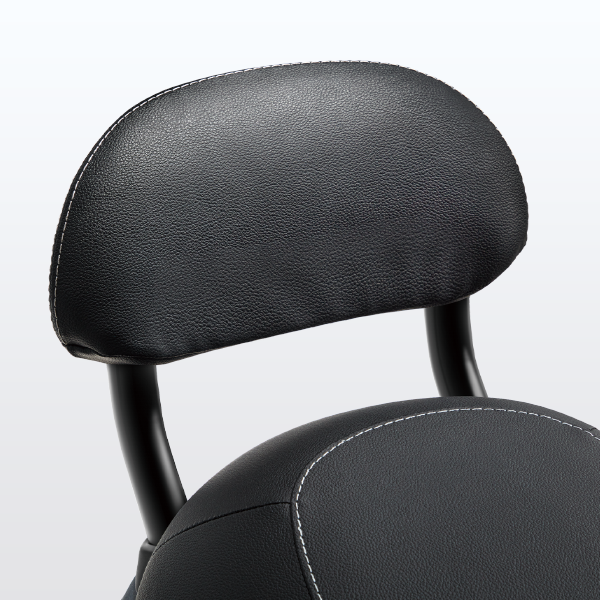
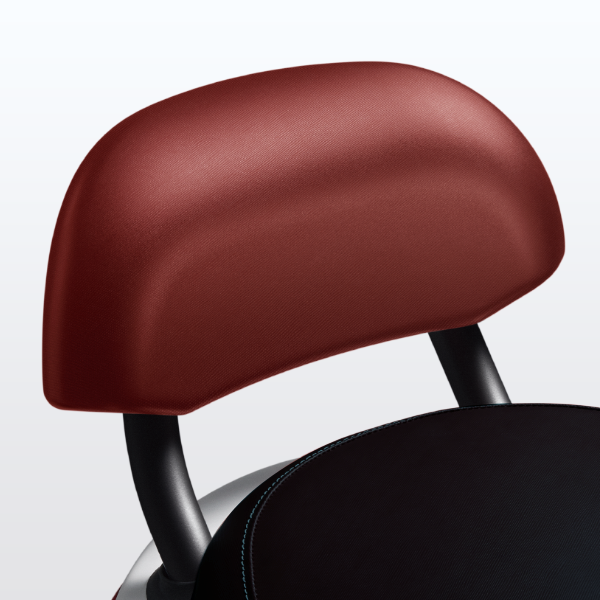
新增勁炫、補助test

diff --git a/layouts/models/single.html b/layouts/models/single.html
@@ -134,7 +134,7 @@
     {{ if gt (len $heroPhotos) 1 }}
     <button type="button" onclick="prevHeroSlide()" class="absolute left-3 md:left-32 top-1/2 -translate-y-1/2 bg-black/40 hover:bg-black/70 text-white w-10 h-10 md:w-12 md:h-12 rounded-full backdrop-blur-md flex items-center justify-center text-lg md:text-xl z-20 opacity-70 hover:opacity-100 transition-all shadow-md">❮</button>
     <button type="button" onclick="nextHeroSlide()" class="absolute right-3 md:right-12 top-1/2 -translate-y-1/2 bg-black/50 hover:bg-black/80 text-white w-10 h-10 md:w-auto md:h-auto md:py-2.5 md:px-4 rounded-full backdrop-blur-md flex items-center justify-center md:gap-2 z-20 opacity-85 hover:opacity-100 transition-all shadow-md group">
-        <span class="hidden md:inline text-sm font-bold tracking-wider">點擊看更多車色</span>
+        <span class="hidden md:inline text-sm font-bold tracking-wider">點擊看更多</span>
         <span class="text-base md:text-lg transition-transform group-hover:translate-x-0.5">❯</span>
     </button>
     <div id="hero-dots" class="absolute bottom-6 md:bottom-8 left-1/2 -translate-x-1/2 flex gap-3 z-20"></div>

diff --git a/content/models/kg/index.md b/content/models/kg/index.md
@@ -1,6 +1,6 @@
 ---
-title: "eMOVING EZ1"
-description: "輕巧好騎，城市通勤首選"
+title: "eMOVING 勁炫125"
+description: "免月租 首當騎充"
 
 # 0. 頁首輪播圖 (新增此區塊，統一使用 .png)
 hero_slides:
@@ -9,47 +9,44 @@ hero_slides:
 
 # 1. 精彩試乘影片
 videos:
-  - id: "JPFyRV4EGww"
-    title: "eMOVING EZ1 深度試乘體驗"
-  - id: "X75kLrpiaM0"
-    title: "城市通勤首選！EZ1 試騎心得"
-  - id: "x2l7XLsQ2YU"
-    title: "女用機車大推！輕鬆上手"
+  - id: "oMJQCtLhRRg"
+    title: "出發！騎著eMOVING iE125『潛』進小琉球【新車試駕】"
+  - id: "qmsFOyNzBhU"
+    title: "歐塊日常 EP9 - 電動機車超充體驗"
+  - id: "FCB6EDptK5g"
+    title: "騎電動車 eMoving iE125 吃給你看！電動中柱好省力（是誰說桃園是美食沙漠？）"
 
 
 # 網紅推薦 IG 貼文嵌入 (新增區塊)
 ig_posts:
-  - url: "https://www.instagram.com/p/Cjz84mULT3y/?utm_source=ig_embed&ig_rid=AeKvRSm5RTOLuoIcWrflrgj"
-  - url: "https://www.instagram.com/p/Cj2drvuLCFy/?utm_source=ig_embed&ig_rid=AWYZ4_s7nE9Lp8_wi-Qj374"
-  - url: "https://www.instagram.com/p/Cbuqf6_rGMh/?utm_source=ig_embed&ig_rid=AdPpzkl6EBtwwSWgMoGuNEY"
+  - url: "https://www.instagram.com/p/C6dw7rgySXP/?utm_source=ig_embed&ig_rid=AZ5ZkObWji5wjGOHvrnQLas"
+  - url: "https://www.instagram.com/p/CGZWAgUpkyy/?utm_source=ig_embed&ig_rid=AZx4OalViWgwCbFQcgtsY6T"
+  - url: "https://www.instagram.com/p/CIPaY7nj6b-/?utm_source=ig_embed&ig_rid=A0Zv8plpGRBsYCvc_IelrcO"
 
 
 # 2. 車款特色 (已改為 .png)
 features:
-  - title: "極輕巧車身設計 - 只有80kg"
-    desc: "專為女性與輕通勤族群設計，輕鬆牽車擺頭無負擔。"
+  - title: "最懂你的貼心電動機車"
+    desc: "你沒想到的，勁炫125都幫你想到了。"
     image: "feature_1.png"
-  - title: "大容量置物空間"
-    desc: "車廂大置物空間，輕鬆收納日常用品與包包。"
+  - title: "自由充電，有插座就充"
+    desc: "隨時隨地充電，免月租甩掉每月負擔。"
     image: "feature_2.png"
-  - title: "雙杯前置物空間"
-    desc: "超大前置物空間，兩杯飲料 + 手機也沒問題。"
+  - title: "CBS 煞車系統"
+    desc: "按下煞車桿，瞬間分配制動力至前後輪，保持車身穩定，縮短煞車距離。"
     image: "feature_3.png"  
-  - title: "低座高"
-    desc: "不論身高高低，都能享受騎乘 ez1 的舒適度。"
+  - title: "智慧定速巡航"
+    desc: "輕鬆維持相同速度，節電又省力。"
     image: "feature_4.png"
-  - title: "USB充電"
-    desc: "實現電量自由，騎車出遊可以多拍幾張照片或影片。"
+  - title: "膝前空間"
+    desc: "腳踏空間大，刻印品牌大使圖樣，增加趣味度。"
     image: "feature_5.png"
-  - title: "卡片感應鑰匙"
-    desc: "鑰匙變成薄博一張卡片，方便攜帶幾乎無重量。"
+  - title: "中控鎖"
+    desc: "傳統鑰匙開機，上手無難度。"
     image: "feature_6.png"          
-  - title: "手機也能當鑰匙"
-    desc: "利用「FUN心騎 App」可以當備用鑰匙。"
+  - title: "CVT 皮帶傳動系統"
+    desc: "騎乘更穩定，維護保養簡單方便。"
     image: "feature_7.png"  
-  - title: "使用Gogoro電池 6秒換電"
-    desc: "截至2026年8月已佈建2,738個電池交換站，騎到哪換到哪。"
-    image: "feature_8.png"  
 
 
 # 3. 詳細規格數據表注意事項（可依車款新增多條）
@@ -57,17 +54,19 @@ specs_notes:
   - "* 規格配備以實車為準，本公司保留修改權利。"
   - "註：<br>
 
-    1.EZ-R能源效率為23.8 km/度，純電行程為82km，年耗電量189度，實際續航里程、極速、加速能力等因載重條件、個人騎乘習慣、騎乘路況與天候狀況的不同而有所差異。<br>
+    1. 極速、直線加速能力為實驗室測試值，以整車重量(含騎士1人)在175公斤以下進行測試。極速之測試情境為開啟Boost模式，行駛於平坦之柏油道路測試的最高儀表速度。直線加速能力之測試情境為開啟Boost模式測試的直線加速秒數。<br>
 
-    2.中華汽車保有隨時變動eMOVING電動二輪車和其他產品之設計及規格的權利。<br>
+    2. 勁炫125能源效率為18.5km/度，純電行駛里程為75km，實際續航里程、極速、加速能力等因載重條件、個人騎乘習慣、 騎乘路況與天候狀況的不同而有所差異。<br>
 
-    3.中華汽車亦保留隨時對車款及產品出售與否或對其內容記載變更之權利。<br>
+    3. 整車(不含電池)保固自領牌日起2年或3萬公里以內，其一條件到達即終止保固；電池租賃保固請依電池租賃暨充電服務使用合約內容。<br>
 
-    4.實際規格以量產為主。<br>
+    4.中華汽車保有隨時變動eMOVING電動二輪車和其他產品之設計及規格的權利。<br>
 
-    6.年耗電量(度)係以年平均行駛4,500公里除以能源效率測試值計算；表列能耗值測試方法為CNS 15819-4及其後續修正測試方法。<br>
+    5.中華汽車亦保留隨時對車款及產品出售與否或對其內容記載變更之權利。<br>
 
-    7.7.本車款採用gogoro換電系統，無提供預選里程方案。<br>
+    6.實際規格以量產為主。<br>
+
+    7.年耗電量(度)243度係以年平均行駛4,500公里除以能源效率測試值計算；表列能耗值測試方法為CNS 15819-4及其後續修正測試方法。<br>
 
     車主車輛使用常見問題請參閱：<a href='https://www.e-moving.com.tw/QA' target='_blank'>https://www.e-moving.com.tw/QA</a>。"
 
@@ -75,99 +74,110 @@ specs_tables:
 - title: "勁炫125 超質型"
   specs:
   - label: "長 x 寬 x 高"
-    value: "1,690 X 645 X 1,042 mm"
+    value: "1,800 X 680 X 1,090mm"
   - label: "軸距"
-    value: "1,174 mm"
-  - label: "座墊高"
-    value: "740 mm"
+    value: "1,280 mm"
+  - label: "極速"
+    value: "100 km/h"
   - label: "車重(含電池)"
-    value: "80  kg"
-  - label: "頭燈"
-    value: "LED"
-  - label: "方向燈"
-    value: "LED"
-  - label: "尾燈"
-    value: "LED"
-  - label: "懸吊系統"
-    value: "雙槍式後避震"
-  - label: "煞車系統"
-    value: "油壓碟煞 / 金屬油管"
+    value: "120 kg"
+  - label: "最大功率（馬力"
+    value: "6kW（8.0hp"
+  - label: "傳動型式"
+    value: "皮帶"
+  - label: "動力模式"
+    value: "ECO/ Normal / Boost"
+  - label: "電池電壓"
+    value: "87.6V"
+  - label: "容量"
+    value: "36Ah"
+  - label: "後避震器"
+    value: "雙避震（預載可調）"
   - label: "碟盤規格"
-    value: "前：200 mm / 後：180 mm"
+    value: "245 mm/200 mm"
   - label: "輪胎規格"
-    value: "前：90/90-10 50L / 後：100-90-10 56L"
-  - label: "最大功率(馬力)"
-    value: "3 kw(4.0hp)"
-  - label: "最大扭力"
-    value: "115Nm"
-  - label: "最高時速"
-    value: "50 km/hr"
-  - label: "後置物箱空間"
-    value: "21.6 L"
+    value: "前：90/90-12  / 後：100/80-10"
+  - label: "煞車系統"
+    value: "CBS"
+  - label: "儀表面板"
+    value: "彩色液晶"
+  - label: "0-50km/h"
+    value: "3.9  sec 直線加速"
+  - label: "鑰匙鎖組"
+    value: "傳統鑰匙"
   - label: "貼心配備"
-    value: "置物掛勾 / 後扶手 / USB充電孔 / 大容量雙側前置物盒"
-  - label: "解鎖與上鎖"
-    value: "智慧鑰匙卡 / 智慧型手機"
-  - label: "置物箱開啟方式"
-    value: "車上按鍵 / 智慧鑰匙卡 / 智慧型手機 "
-  - label: "儀錶板"
-    value: "負顯背光單色液晶"
+    value: "USB充電器(選購) / LED頭燈/LED方向燈 / 側腳架自動斷電 / 定速巡航(恆定馬達功率) / 電動倒車 / 緊急煞車警示"
+  - label: "電池電壓"
+    value: "87.6V"
+  - label: "容量"
+    value: "36Ah"
   - label: "能源效率"
-    value: "27km/度"
+    value: "18.5km/度"
   - label: "純電行程 "
-    value: "39km"
+    value: "75km"
   - label: "年耗電源"
-    value: "167度 "
+    value: "243度 "
 
 
 
 # 4. 媒體報導觀點 (已改為 .png)
 reports:
-  - source: "2gamesome"
-    author: "葉毓中"
+  - source: "SiCAR愛車酷"
+    author: "SiCAR愛車酷"
     image: "report_1.png"
-    summary: "作為第一款加入 PBGN 換電聯盟的代表，eMoving 仍走過去擅長的輕巧、女性路線，外型設計面，EZ1 與 VIVA 最大不同處，在於車頭前半部的設計，考量 VIVA 正負兩極的車頭設計評價，加上對於著裙裝女性不甚友善（易曝光）的缺點，EZ1 換上了與傳統油車較相近的前車體造型，且為了呼應品牌特色，. . . . . . "
-    link: "https://2gamesome.com.tw/article/view/2335"
+    summary: "eMOVING自2019年推出市場唯一快充電動機車，具競爭性的價格及在家就可以充電的使用模式，甫推出就深受消費者的喜愛。新款勁炫125承襲強勁的動力系統，0-50km僅3.9秒的強勁性能及標配的BOOST加速，充分滿足消費者對騎乘速度的期待。此外在騎乘感受上調整坐墊角度，使前緣流線更符合人體工學，不論男女在乘坐時均能充足支撐且更加舒適。輔助倒車功能優化，透過簡單催動電門或按壓倒車鍵，即可進行前進後退，輕鬆將車輛駛入停車格內。. . . . "
+    link: "https://sicar.com.tw/release/article/e358c685-1704-11ed-8fbb-42010a8c001a"
 
-  - source: "美麗佳人"
-    author: "花漾543"
+  - source: "Mobile01"
+    author: "少了一個你"
     image: "report_2.png"
-    summary: "廣受好評的EZ1電動車外型美學完全正中女生的時尚喜好，整體設計靈感融入都會女性的多種面貌，不只新穎時尚還富有俏麗的活潑感，而專為女性打造的圓潤車體外型搭配晶鑽LED的復古頭燈，更令女生驚呼超級可愛，搭配活力開朗的「芒果雪酪」全新配色，或內斂優雅的莫蘭迪色調，多變風格無論是清新學生派、都會流行風或 . . . . . . "
-    link: "https://www.marieclaire.com.tw/lifestyle/news/68567"
+    summary: "這台勁炫125領車到現在好一陣子了大笑，騎到現在自己覺得整體感覺都還不差，有種賺到的感覺。我是專案調整過才去申請的，也不需要用舊車去換新車，如果有舊換新就多獎勵金一萬塊，忽然覺得住基隆挺幸福的。只是說基隆到哪都是上下坡，早就是我們的日常。當初選車款對爬坡能力很有要求，還好S6Rex和勁炫125都挺能爬的，專案本身機車不用錢，考量後續資費的花費和下雨的頻率…後來還是選充電機車！下雨天還要出去換電，冬天又冷，用想的就懶。再來，光是沒有月租就真的先贏一半，且家裡、外面都能充電，代步用綽綽有餘. . . ."
+    link: "https://www.mobile01.com/topicdetail.php?f=753&t=7088679"
 
-  - source: "小七車觀點"
-    author: "徐立軒"
+  - source: "Cool3C"
+    author: "Chevelle.fu"
     image: "report_3.png"
-    summary: "eMOVING EZ1擁有同級車最大的前、後車箱置物空間，讓收納變得好簡單。新色「神秘霧藍」維持EZ1車系一貫的時尚概念，巧妙點綴日常生活中簡約裝扮讓圓潤車身更具特色，. . . . . . "
-    link: "https://www.7car.tw/articles/read/92365"
+    summary: "作為台灣元老級電動機車品牌的中華汽車 eMoving 雖然在日前宣布加入 Gogoro 為首的 PBGN 換電聯盟，但當時仍強調會採用充換並行的模式，不會因此棄守原本專注的充電式電動機車；稍早 eMoving 在官網公布一款全新的插電式電動機車勁炫 125 ，相較 IE125 使用更前衛的外觀，不過性能規格則延續 IE125 。勁炫 125 的外觀像是 IE 125 變得更剛毅的版本，不過仍可看到近似 IE 125 的基本設計元素；動力規格諸元亦與 IE 125 相同，搭載 6kW 馬達，. . . ."
+    link: "https://www.cool3c.com/article/180982"
 
 # 5. 專屬原廠配件 (已改為 .png)
 accessories:
-  - title: "舒適後靠背座"
+  - title: "後靠枕-紅、棕"
     image: "acc_1.png"
-  - title: "可愛造型風鏡"
-    image: "acc_2.png"
-  - title: "便利加倍菜籃"
-    image: "acc_3.png"
   - title: "鋁合金手機架"
-    image: "acc_4.png"
+    image: "acc_2.png"
+
+
 
 # 6. 常見問題解答
 faq:
-  - question: "騎乘 EZ1 需要考駕照嗎？"
-    answer: "EZ1 為綠牌輕型電動機車，需持有「普通輕型機車駕照」或 2023年6月30日前考取的「普通小型車駕照（汽車駕照）」即可合法騎乘上路。"
-  - question: "如何進行換電與計費？"
-    answer: "A. 採用換電系統。 eMOVING EZ1 是與 Gogoro 合作的 PBGN 聯盟車款，使用的是 Gogoro Network 智慧電池交換平台（單顆電池配置）。全台有超過 2,400 座 GoStation 換電站可以 24 小時隨時換電，不需要在家充電，但每個月必須依照騎乘里程向 Gogoro 繳納電池月租費資費方案。 "
-  - question: "eMOVING EZ1 的車身尺寸與重點規格為何？"
-    answer: "A. EZ1 是專為台灣女性與小隻女的身形打造，主打極致輕巧與極佳的人體工學。詳細規格如下：車身尺寸：1,690 x 645 x 1,042 mm｜座墊高度：740 mm（155cm 的嬌小身材也能輕鬆雙腳著地｜全車重量：80 公斤（含單顆電池，移車、牽車毫無負擔｜動力輸出：3kW 最大馬力 / 115Nm 最大扭力（與 Gogoro VIVA 相同）｜煞車系統：前後雙碟煞（前輪配備同級最大 200mm 碟盤，安全性極佳）｜智慧科技：標配 SmartKey 智慧鑰匙卡、支援「FUN心騎」智慧車聯網 APP"
-  - question: "eMOVING EZ1 有哪些針對女性貼心設計的置物機能？"
-    answer: "A. EZ1 的三大實用機能在同級綠牌換電車中表現非常亮眼：同級最大前置物空間： 前方的開放式置物深槽很大，能同時穩穩放下兩瓶保溫杯與智慧型手機，並附有 USB 前置充電座。21.6 公升大容量車廂： 雖然是單電池設定，但車廂空間被最大化利用，放入一頂 3/4 罩安全帽後，旁邊還留有格位能收納雨衣、抹布與隨身小物。優化騎乘三角： 擁有 565mm 加長加寬舒適平整座墊，腳踏空間也經過平整化改良（改善了 Gogoro 原始車系容易腳滑的缺點），更標配了省力中柱與好抓握的加粗後扶手。"
+  - question: "Q. eMOVING 勁炫125 是充電還是換電？可以用 Gogoro 的換電站嗎？"
+    answer: "A. 是快充／充電型機車，無法使用 Gogoro 換電站。<br>
+     eMOVING 勁炫125 的定位與 PBGN 換電聯盟不同。它無法到 GoStation 交換電池，而是採取「在家插座充電」或「在外快充站補電」的模式。適合居住環境方便拉線充電，或是習慣傳統「車載電池」概念的車主。"
+  - question: "Q. 勁炫125 的電池資費怎麼算？聽說有「終身免月租費」是真的嗎？"
+    answer: "A. 是真的！這是勁炫125 最大的優勢之一。 <br>
+     ⭐  終身免月租方案（電池買斷）： 購車時可選擇直接買斷鋰電池（原廠提供5年保固），此後完全不用繳交每月電池月租費，騎多少都是你自己的，最適合低里程代步、排斥每個月被收固定月租費的車主。 "
+  - question: "Q. 勁炫125 要怎麼充電？速度快嗎？"
+    answer: "A. 勁炫125 支援「家用充電」與「公用快充」雙模式：<br>
+     ．家用充電： 可隨車選配 360W 輕巧型或 600W 標準型高效充電器，直接插客廳或車庫的普通 AC 110V 插座即可充電。<br>
+     ．公用快充： 出門在外若快沒電，可透過手機 APP 尋找全台超過 200 個公用充電站，使用「超級充電」或「快速充電」槍進行補電，喝杯咖啡的時間就能快速回復續航力。"
+  - question: "Q. eMOVING 勁炫125 的馬達與動力規格如何？"
+    answer: "A. 雖然它是充電車，但它的動力完全是主流白牌機車的規格，且有別於一般電車的傳動設計：<br>
+     1. 馬達最大功率：6,000W (6kW) / 電池電壓 87.6V<br>
+     2. 傳動系統：搭載電動車少見的 CVT 變速系統（動力輸出非常順暢）<br>
+     3. 極速表現：最高可達 100 km/h（開啟 Boost 模式下）<br>
+     4. 直線加速：0 到 50 km/h 加速僅需 3.9 秒<br>
+     5. 煞車安全：前後雙碟煞、標配 CBS 連動煞車系統 與 前後輪胎壓偵測器"
+  - question: "Q. 勁炫125 有「定速巡航」功能？"
+    answer: "A. 有的！這項功能在同級距機車中廣受好評：<br>
+     1. 智慧定速巡航： 長途騎乘時按下定速鍵，車輛就會自動維持目前時速，手腕不用一直催著電門，大方降低長途駕駛的疲勞感。<br>
+     2. 優化輔助倒車： 透過簡單催動電門或按壓倒車鍵，即可輕鬆進行前進或後退，移出狹窄車位極其方便。"
 
 # 電子型錄 (對應 static/catalog/ez1.pdf)
-catalog_url: "catalog/ez1.pdf"
+catalog_url: "catalog/kg.pdf"
 
 # 車主手冊 (假設 PDF 放在 static/manual/ 資料夾內)
-manual_url: "manual/ez1.pdf"
+manual_url: "manual/kg.pdf"
 
 # ==========================================
 # 視差滾動區塊專用獨立設定
@@ -175,32 +185,32 @@ manual_url: "manual/ez1.pdf"
 
 # 1. 視差車色去背圖、名稱與背景色配對
 parallax_slides:
-  - image: "ez1-blue.png"
-    color_name: "神秘霧藍"
-    bg_color: "#4378ea"
-  - image: "ez1-yellow.png"
-    color_name: "芒果雪酪"
-    bg_color: "#F4D934"
+  - image: "kg-gray.png"
+    color_name: "風馳灰"
+    bg_color: "#BFBFBF"
+  - image: "kg-white.png"
+    color_name: "電光白"
+    bg_color: "#F7F7F7"
 
 # 2. 車款特色列表 (一特色對應一張專屬背景圖)
 parallax_features:
   - number: "01"
-    title: "晶鑽LED頭燈"
-    desc: "時尚美型頭燈，LED省電同時優雅騎行。"
+    title: "LED反射式頭燈"
+    desc: "遠近分離LED反射式頭燈，沉穩時尚有形。"
     image: "feature-bg-01.png"
     color_class: "text-yellow-400"
     badge_bg: "bg-yellow-400"
 
   - number: "02"
-    title: "耐刮耐磨PP車殼"
-    desc: "耐刮耐磨材質，遇到髒髒的，用水沖並用抹布一擦就掉。"
+    title: "LED導光條尾燈"
+    desc: "汽車級設計，Ｕ型LED導光條尾燈。"
     image: "feature-bg-02.png"
     color_class: "text-cyan-400"
     badge_bg: "bg-cyan-400"
 
   - number: "03"
-    title: "雙槍式後避震 / 安全前後碟煞"
-    desc: "雙槍式後避震遇到不平路也舒適，前後200mm大碟盤煞車更有力。"
+    title: "運動型後避震"
+    desc: "強化整體操控表現。"
     image: "feature-bg-03.png"
     color_class: "text-emerald-400"
     badge_bg: "bg-emerald-400"

diff --git a/content/subsidies/chiayi-city/index.md b/content/subsidies/chiayi-city/index.md
@@ -1,0 +1,9 @@
+---
+title: "嘉義市補助"
+region: "南部"       # 必須精準填寫：中部、北部、南部、東部、外島
+phone: "05-2251775#213"
+website_url: "https://www.google.com/url?q=https%3A%2F%2Fepb.chiayi.gov.tw%2Fcl.aspx%3Fn%3D4083&sa=D&sntz=1&usg=AOvVaw1L9z5Nc2Y7odBpgWNNbW6D"
+doc_url: "https://www.google.com/url?q=https%3A%2F%2Fepb.chiayi.gov.tw%2FNews_Content.aspx%3Fn%3D12643%26sms%3D14642%26s%3D929114&sa=D&sntz=1&usg=AOvVaw2JURxol0pBf8wbo2nV6NOr"
+query_url:   # 若無此項，前台會自動隱藏該按鈕
+image: "115.png" # 填入您的圖片路徑
+---

diff --git a/content/subsidies/hsinchu-city/index.md b/content/subsidies/hsinchu-city/index.md
@@ -1,0 +1,9 @@
+---
+title: "新竹市補助"
+region: "北部"       # 必須精準填寫：中部、北部、南部、東部、外島
+phone: "03-5368920#2014 "
+website_url: "https://www.google.com/url?q=https%3A%2F%2Fwww.hccepb.gov.tw%2Fnews-01.php&sa=D&sntz=1&usg=AOvVaw39oegLgeFrzzk_5nwj6pXl"
+doc_url: "https://www.google.com/url?q=https%3A%2F%2Fwww.hccepb.gov.tw%2Fservice%2Ffile%2FFileDownload%2F20260306141059-1.pdf&sa=D&sntz=1&usg=AOvVaw1TX6SuA5mgibArV6r2DqNR"
+query_url: ""    # 若無此項，前台會自動隱藏該按鈕
+image: "115.png" # 填入您的圖片路徑
+---

diff --git a/content/subsidies/changhua/index.md b/content/subsidies/changhua/index.md
@@ -1,0 +1,9 @@
+---
+title: "彰化縣補助"
+region: "中部"       # 必須精準填寫：中部、北部、南部、東部、外島
+phone: "04-7115655"
+website_url: "https://www.google.com/url?q=https%3A%2F%2Fwww.chepb.gov.tw%2Fsubsidy%3Ft%3D2&sa=D&sntz=1&usg=AOvVaw0YaumCu5pVjZtoAw_WtseB"
+doc_url: "https://www.google.com/url?q=https%3A%2F%2Fmoto.chepb.gov.tw%2Fmode02.aspx%3Fboss%3D20231228161732271&sa=D&sntz=1&usg=AOvVaw3p8xWFa8XQQVYDJfcSs8q1"
+query_url:    # 若無此項，前台會自動隱藏該按鈕
+image: "115.png" # 填入您的圖片路徑
+---

diff --git a/content/subsidies/chiayi-county/index.md b/content/subsidies/chiayi-county/index.md
@@ -1,0 +1,9 @@
+---
+title: "嘉義縣補助"
+region: "南部"       # 必須精準填寫：中部、北部、南部、東部、外島
+phone: "05-3622234"
+website_url: "https://www.google.com/url?q=https%3A%2F%2Fcyepb.cyhg.gov.tw%2F&sa=D&sntz=1&usg=AOvVaw0uMPOb7pLibIEhnKVXTlDD"
+doc_url: "https://nttableware.chuangjing.com.tw/cysubside115/Home/Index"
+query_url:   # 若無此項，前台會自動隱藏該按鈕
+image: "115.png" # 填入您的圖片路徑
+---

diff --git a/content/subsidies/taichung/index.md b/content/subsidies/taichung/index.md
@@ -1,5 +1,5 @@
 ---
-title: "台中市補助"
+title: "臺中市補助"
 region: "中部"       # 必須精準填寫：中部、北部、南部、東部、外島
 phone: "04-22201661"
 website_url: "https://www.google.com/url?q=https%3A%2F%2Fgreen.epb.taichung.gov.tw%2Findex.aspx&sa=D&sntz=1&usg=AOvVaw1kSQWubOgZtBks36IcxLER"
